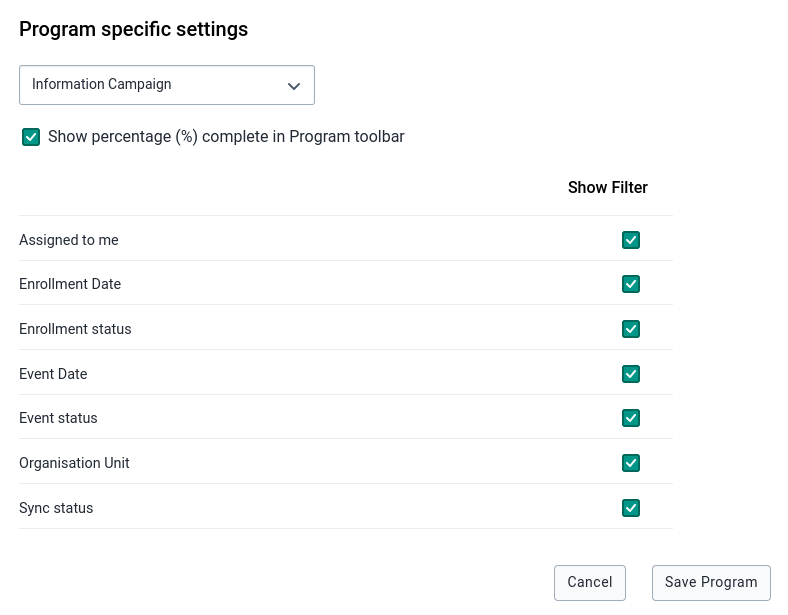
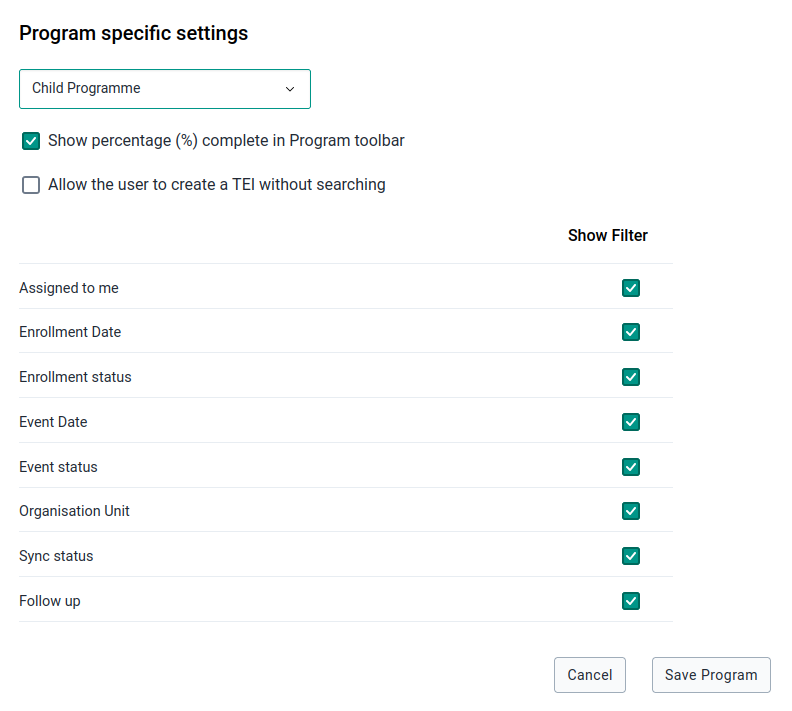
doc: update webapp documentation v2.2.0

diff --git a/content/capture-app/app-android-settings-configuration.md b/content/capture-app/app-android-settings-configuration.md
@@ -32,9 +32,22 @@ Once you have your Matomo instance ready you should get the URLs and the project
 
 ### Mobile configuration
 This section allows admin users to edit the SMS gateway ad result sender phone number.
+This configuration can be found in the Android app.
+- Click on Settings
+- Click on SMS Settings
+
+![](resources/images/capture-app-sms-settings.png){width=33%}
 
 ### Reserved values
 This will specify the number of values per TEI attribute reserved to download in the devices. By default, the Android App reserves 100 Ids, but it is possible to add or reduce this number.
+
+To find this configuration in the Android app:
+- Click on Settings
+- Click on Reserved Values
+- To refill them click on *Manage Reserved Values*
+
+![](resources/images/capture-app-reserved-values.png){width=33%}
+![](resources/images/capture-app-reserved-values-refill.png){width=33%}
 
 ### Encrypt device database
 This will force all the devices to store the database encrypted increasing the security level against data theft attacks.
@@ -52,7 +65,7 @@ This section allows to configure the possibility to take screenshots or screen s
 
 > **Warning**
 >
-> The DHIS2 Android App disables the possibiilty of taking screenshots (and capturing the screen from other apps) by default following security and privacy recommendations. Allowing screenshots might be useful for support and/or sharing purposes in same cases but make sure you understand the security and privacy implications of this setting before enabling it.
+> The DHIS2 Android App disables the possibility of taking screenshots (and capturing the screen from other apps) by default following security and privacy recommendations. Allowing screenshots might be useful for support and/or sharing purposes in same cases but make sure you understand the security and privacy implications of this setting before enabling it.
 
 ### Disable all settings
 By clicking this button, the user will remove all Android configuration settings. No configuration will be applied to the Android App (if this is the case, the sync parameters applied are the ones defined in the Android Capture app).
@@ -72,16 +85,15 @@ Data sync
 :	Admin users can choose how often the data will sync. e.g. Syncing data every 6 hours.
 
 ![](resources/images/capture-app-sync-global.png){width=33%}
+![](resources/images/capture-app-sync-global-app.png){width=33%}
 
 
-Use the new Tracker Importer
+Use the new Tracker Importer (**New 2.2**)
 :	Admin users can choose which tracker importer endpoint will be used.
 
 > **Warning**
 >
-> This option is only available if the Android Settings Webapp is used from version 2.37 DHIS2 API onwards.
-> 
-> It is recommended to use this new tracker importer in a testing environment. 
+> This option is only available if the Android Settings Webapp is used from version 2.38 DHIS2 API onwards.
 >
 > By default, the Android app uses the legacy tracker importer */api/trackedEntityInstances* but an admin can check this option and the importer introduced in 2.37 */api/tracker* endpoint will be used.
 >
@@ -227,13 +239,22 @@ This section allows to admin user to customize the filter and percentage complet
 
 - Click on *Add a Program Settings*, and a dialog will appear.
 - Click on the dropdown that will show a list of programs.
-- Clicking on a program will show the different filters to configure. The category combo filter depends on the category combo name. 
+- Clicking on a program will show the different filters to configure. The category combo filter depends on the category combo name.
 
 ![](resources/images/capture-app-appearance-program-specific.png){width=75%}
 
 If any specific settings have been saved, a table will summarize the particular configuration per program, and the options to edit or delete these settings. 
 
 ![](resources/images/capture-app-appearance-program-table.png){width=75%}
+
+The option "Show percentage (%) complete in Program toolbar" refers to: 
+![](resources/images/capture-app-appearance-programs-spinner.png){width=75%}
+
+**Search Tracked Entity (New 2.2)**
+
+Searching before entering a new TEI is mandatory to avoid possible duplicates, and the DHIS2 Android App has been designed as such. This new version gives the possibility to choose to keep this process or allow the user to create a TEI without searching first.
+By default, allowing the user to create a TEI without searching is disabled.
+
 
 
 ### Data set { #capture_app_android_settings_webapp_appearance_data }
